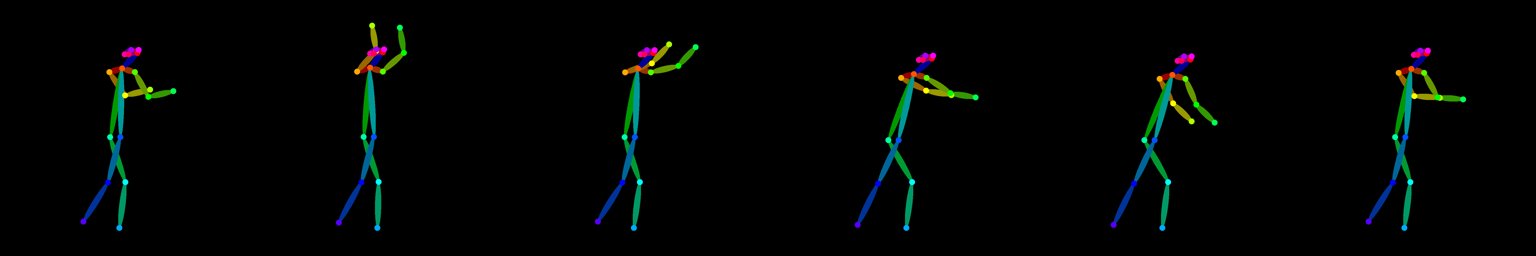
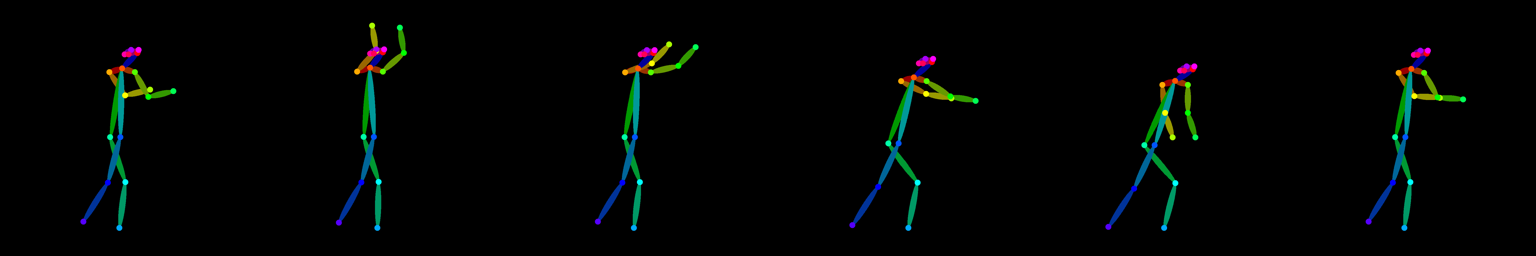
Golpe de espada mais fundo e protecao do tronco pela pose no removedor de fundo

Changed region(s): [[0.7188, 0.2188, 0.8125, 0.9062], [0.5312, 0.1875, 0.6562, 0.9062]]

diff --git a/backend-core/openpixel_core/animation.py b/backend-core/openpixel_core/animation.py
@@ -41,7 +41,7 @@ MOTIONS = {
               "avoid": "(sword:1.6), (katana:1.5), (blade:1.5), (weapon:1.5), (knife:1.4), (stick:1.3), (staff:1.3), (boxing gloves:1.5), (red gloves:1.5), "
                        "smoke, dust, aura, energy effect, slash effect, motion blur, speed lines, glow, "
                        "(ground shadow:1.5), (floor:1.3)",
-              "poses": lambda frames, p: sword_cycle(frames)},
+              "poses": lambda frames, p: sword_cycle(frames, reach=1.5)},
     "idle": {"label": "Parado (idle)", "fps": 4, "suffix": IDLE_SUFFIX, "frames": 4, "anchor": "fixed",
              "poses": lambda frames, p: idle_cycle(frames)},
 }
@@ -53,8 +53,21 @@ def _components(mask: np.ndarray, connectivity: int = 8):
     return n, lab, stats
 
 
-def _remove_bg(a: np.ndarray, tol: int, clean_shadow: bool = True) -> np.ndarray:
-    """Mascara do personagem (True) em um frame pixelizado: tira o fundo ligado as bordas e a sombra do chao."""
+def _torso_protect(pose, g: int, radius: float = 0.045) -> np.ndarray:
+    """Faixa em volta do tronco da pose (pescoco -> meio do quadril): sempre e personagem, mesmo que a roupa tenha
+    a cor do fundo (regata branca em fundo claro)."""
+    m = np.zeros((g, g), np.uint8)
+    neck = pose[1]
+    hip = ((pose[8][0] + pose[11][0]) / 2, (pose[8][1] + pose[11][1]) / 2)
+    cv2.line(m, (round(neck[0] * (g - 1)), round(neck[1] * (g - 1))), (round(hip[0] * (g - 1)), round(hip[1] * (g - 1))),
+             1, max(1, round(2 * radius * g)))
+    return m.astype(bool)
+
+
+def _remove_bg(a: np.ndarray, tol: int, clean_shadow: bool = True, protect: np.ndarray | None = None) -> np.ndarray:
+    """Mascara do personagem (True) em um frame pixelizado: tira o fundo ligado as bordas e a sombra do chao.
+
+    ``protect``: mascara de pixels que nunca sao fundo (o tronco, vindo da pose)."""
     g = a.shape[0]
     edge = np.concatenate([a[0], a[-1], a[:, 0], a[:, -1]])
     vals, counts = np.unique(edge.reshape(-1, 3), axis=0, return_counts=True)
@@ -64,6 +77,8 @@ def _remove_bg(a: np.ndarray, tol: int, clean_shadow: bool = True) -> np.ndarray
     border = set(lab[0]) | set(lab[-1]) | set(lab[:, 0]) | set(lab[:, -1])
     border.discard(0)
     fg = ~np.isin(lab, list(border))
+    if protect is not None:
+        fg |= protect
     if not fg.any():
         return np.ones((g, g), bool)
     # sombra fina no chao: faixas horizontais largas nas ultimas linhas, sem corpo logo acima
@@ -91,7 +106,7 @@ def _remove_bg(a: np.ndarray, tol: int, clean_shadow: bool = True) -> np.ndarray
 
 
 def process_frames(raws: list[np.ndarray], grid: int = 128, colors: int = 24, bg_tol: int = 45,
-                   anchor: str = "centroid") -> list[np.ndarray]:
+                   anchor: str = "centroid", poses: list | None = None) -> list[np.ndarray]:
     """Frames brutos (RGB alta resolucao) -> RGBA grid x grid: paleta unica, sem fundo, alinhados.
 
     anchor: "centroid" recentraliza cada frame na horizontal (bom para corrida, em que o corpo avanca e recua);
@@ -105,9 +120,9 @@ def process_frames(raws: list[np.ndarray], grid: int = 128, colors: int = 24, bg
         colors=colors, method=Image.Quantize.MEDIANCUT, kmeans=4, dither=Image.Dither.NONE)
     pal = [tuple(int(v) for v in c) for c in np.array(q.getpalette()[:colors * 3], np.uint8).reshape(-1, 3)]
     items = []
-    for r in raws:
+    for i, r in enumerate(raws):
         a = pixelate(r, grid, palette=pal, out_size=None)
-        mask = _remove_bg(a, bg_tol)
+        mask = _remove_bg(a, bg_tol, protect=_torso_protect(poses[i], grid) if poses else None)
         ys, xs = np.nonzero(mask)
         items.append((a, mask, ys, xs))
     margin = max(1, round(grid * 6 / 128))

diff --git a/tests/test_animation_api.py b/tests/test_animation_api.py
@@ -128,3 +128,19 @@ def test_prompt_weight_wraps_character_text_only_when_requested():
 def test_sword_motion_forbids_weapons_in_the_prompt():
     sword = animation.avoid_for(animation.MOTIONS["sword"])
     assert "(sword:1.6)" in sword and sword.startswith(animation.RUN_AVOID)
+
+
+def test_remove_bg_keeps_white_torso_that_matches_the_background_when_protected():
+    g = 64
+    a = np.full((g, g, 3), 235, np.uint8)                    # fundo claro
+    a[10:20, 28:36] = (200, 30, 30)                          # cabeca/pescoco
+    a[48:60, 24:40] = (30, 30, 160)                          # shorts e pernas
+    a[20:48, 28:36] = 236                                    # regata branca ~ cor do fundo, ligada a borda
+    a[20:48, 20:28] = 235
+    pose = [(0.5, 0.2)] * 18
+    pose[1] = (0.5, 0.3)
+    pose[8], pose[11] = (0.5, 0.7), (0.5, 0.7)
+    sem = animation._remove_bg(a, 45)
+    com = animation._remove_bg(a, 45, protect=animation._torso_protect(pose, g))
+    assert not sem[34, 32] and com[34, 32]
+    assert not com[34, 5]                                    # o fundo longe do tronco continua sendo fundo

diff --git a/backend-core/openpixel_core/service.py b/backend-core/openpixel_core/service.py
@@ -353,12 +353,13 @@ def animate_run(req: AnimateRequest, progress=None) -> AnimationResponse:
         prov = prov.with_overrides(avoid=animation.avoid_for(motion))
     shape = {k: (getattr(p, k) if getattr(p, k) is not None else defaults[k])
              for k in ("shoulder_spread", "lean", "flight_height")}
+    poses = motion["poses"](n_frames, shape)
     raws = animation.generate_motion_raws(
-        prov, req.prompt, prov.native_size, seed, motion["poses"](n_frames, shape), motion["suffix"],
+        prov, req.prompt, prov.native_size, seed, poses, motion["suffix"],
         prov.ref_weight > 0, progress, motion.get("prompt_weight", 1.0))
     rgba = animation.process_frames(raws, req.size, req.palette_size,
                                     p.bg_tolerance if p.bg_tolerance is not None else defaults["bg_tolerance"],
-                                    anchor=motion["anchor"])
+                                    anchor=motion["anchor"], poses=poses)
     out = []
     for a in rgba:
         used = sorted({pp._hex(c) for c in a[a[..., 3] > 0][:, :3]})

diff --git a/backend-core/openpixel_core/poses.py b/backend-core/openpixel_core/poses.py
@@ -220,7 +220,9 @@ def sword_cycle(frames: int = 6, reach: float = 1.0) -> list[list[tuple[float, f
     cut = {**guard, "r_arm": 1.1, "r_elbow": 0.3, "l_arm": 1.0, "l_elbow": 0.4, "lean": 0.12 + 0.18 * reach,
            "hip_x": 0.45 + 0.04 * reach, "r_thigh": 0.42, "r_knee": 0.55, "l_thigh": -0.34, "l_knee": 0.12,
            "head_dx": 0.07}
-    follow = {**cut, "r_arm": 0.5, "r_elbow": 0.3, "l_arm": 0.4, "l_elbow": 0.4, "lean": 0.12 + 0.22 * reach}
+    cut.update({"r_thigh": 0.55, "r_knee": 0.75, "l_knee": 0.25})   # joelhos cedem: o corpo desce com o golpe, pes fixos
+    follow = {**cut, "r_arm": 0.1, "r_elbow": 0.2, "l_arm": 0.0, "l_elbow": 0.3, "lean": 0.12 + 0.26 * reach,
+              "r_thigh": 0.6, "r_knee": 0.85, "head_dy": -0.045}  # maos terminam baixas, ao lado do joelho
     back = {**guard, "r_arm": 0.6, "r_elbow": 0.9, "l_arm": 0.5, "l_elbow": 1.0, "lean": 0.16, "hip_x": 0.47}
     return interpolate([(0.0, guard), (1 / 6, raise_), (2 / 6, mid), (3 / 6, cut), (4 / 6, follow), (5 / 6, back)],
                        frames)
